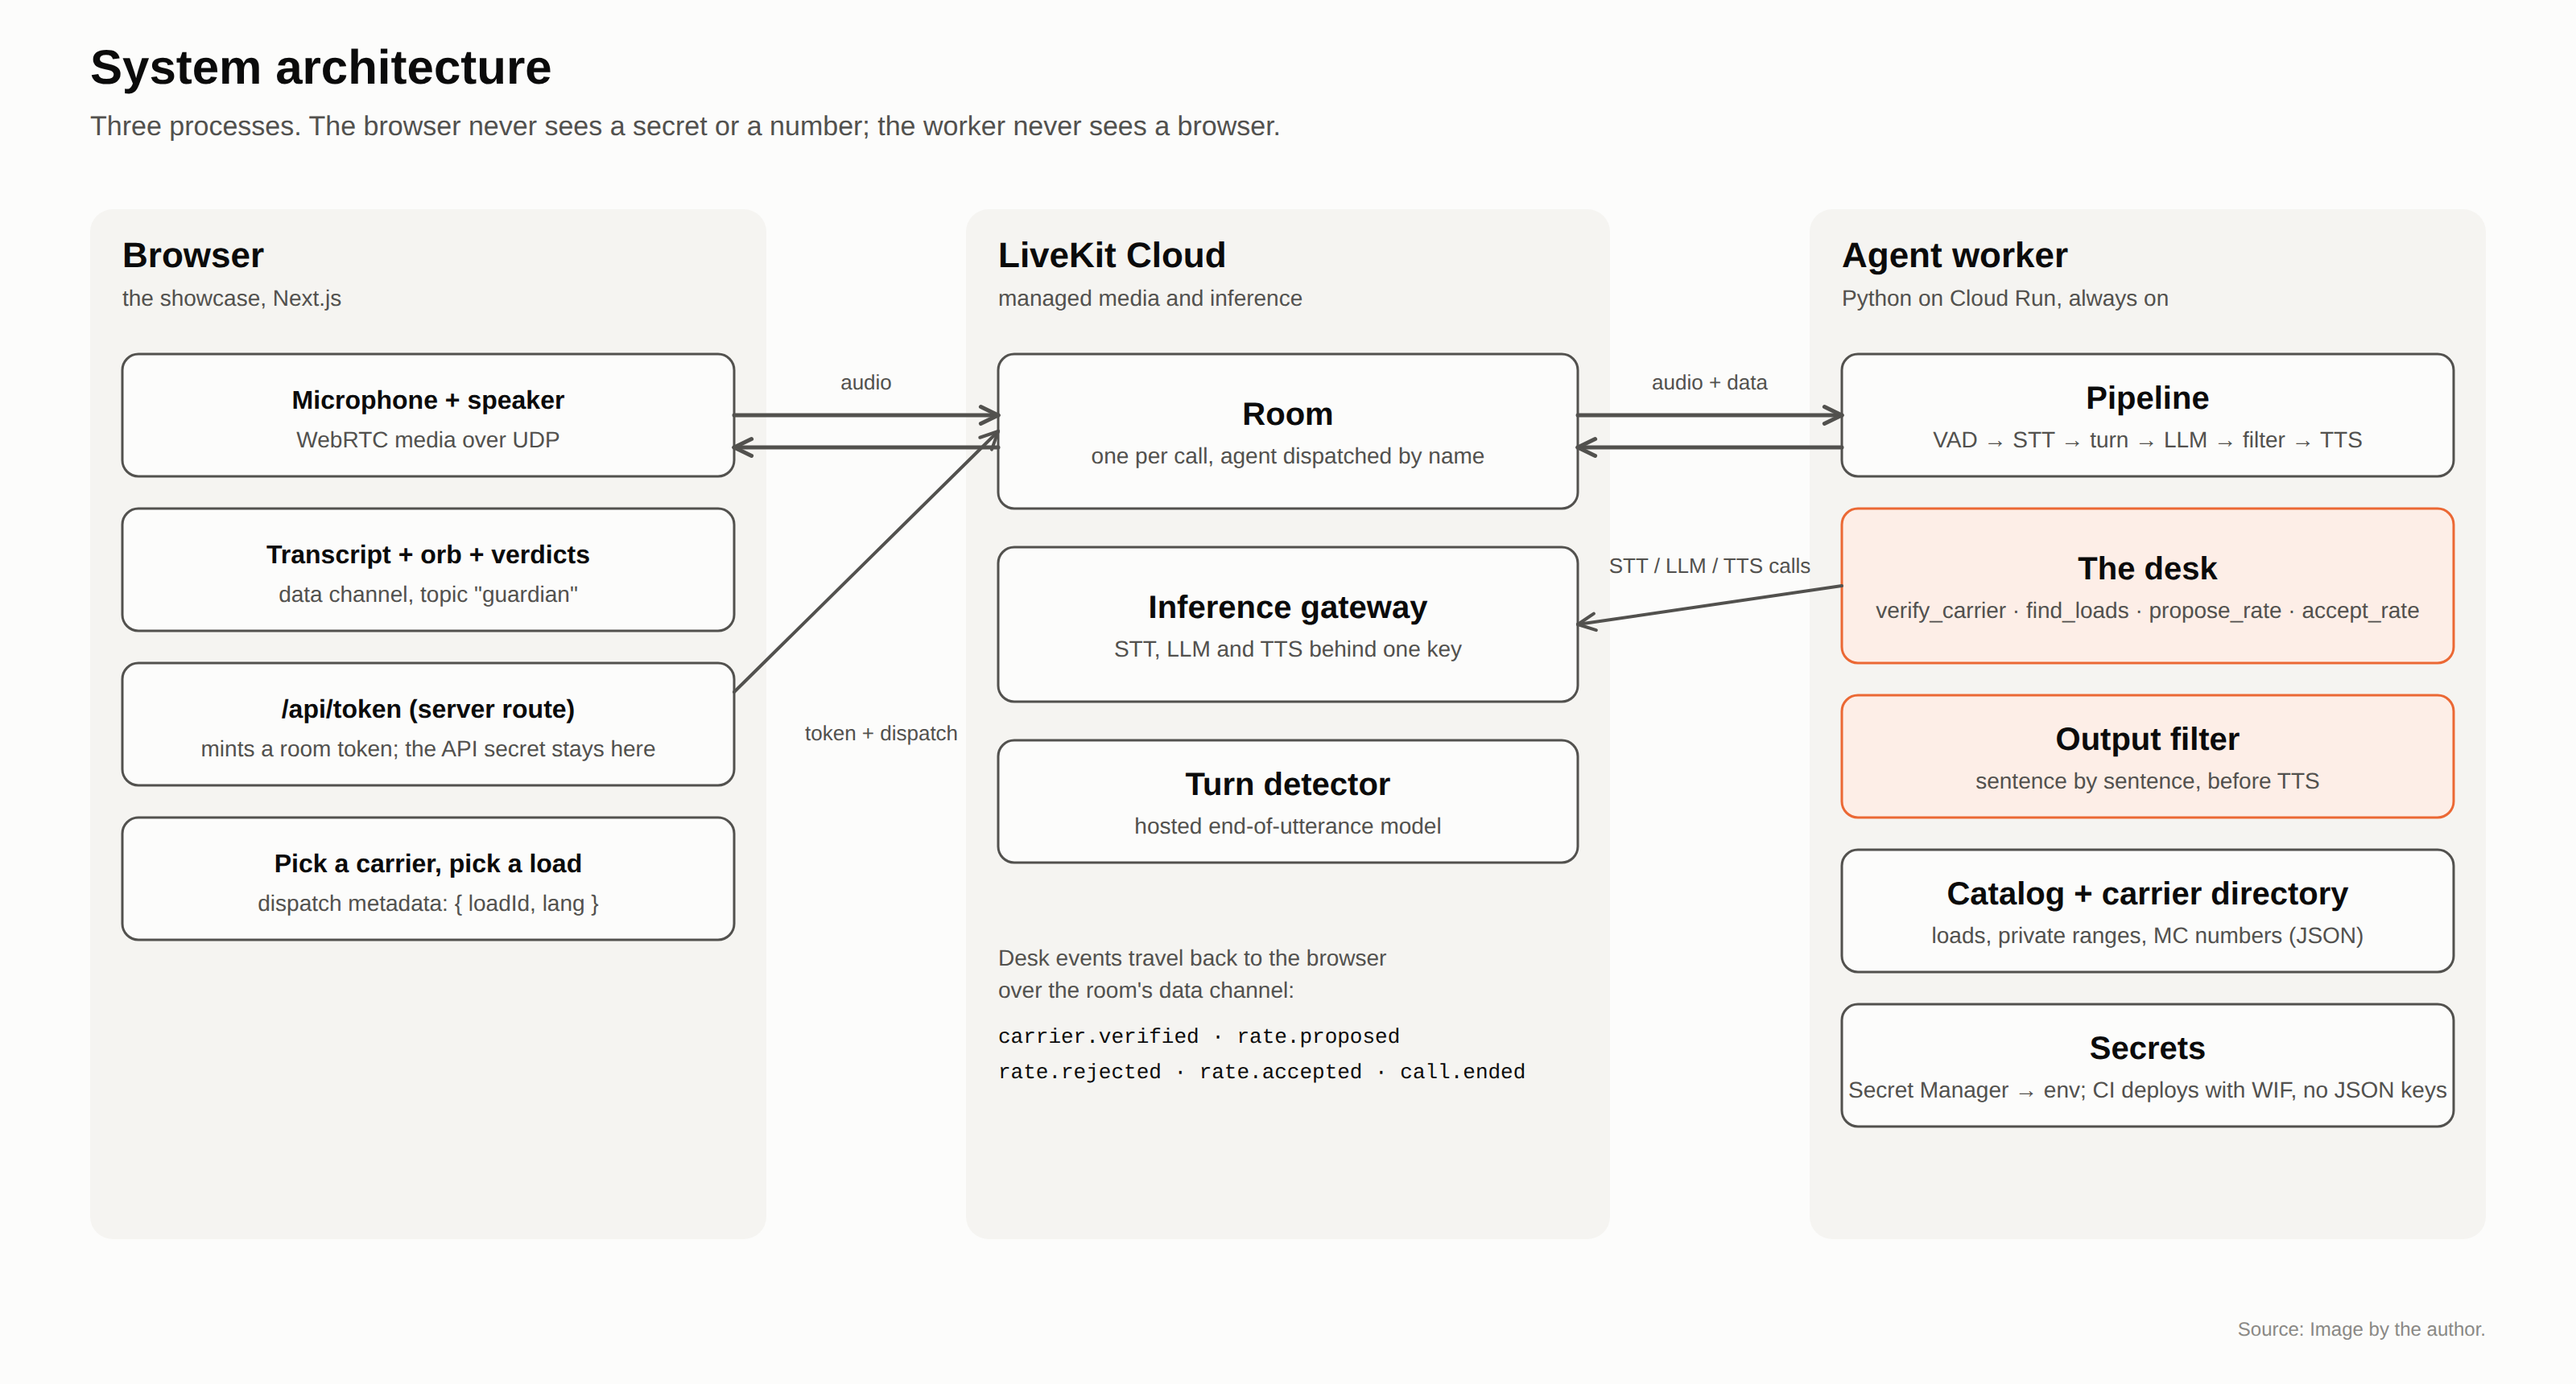
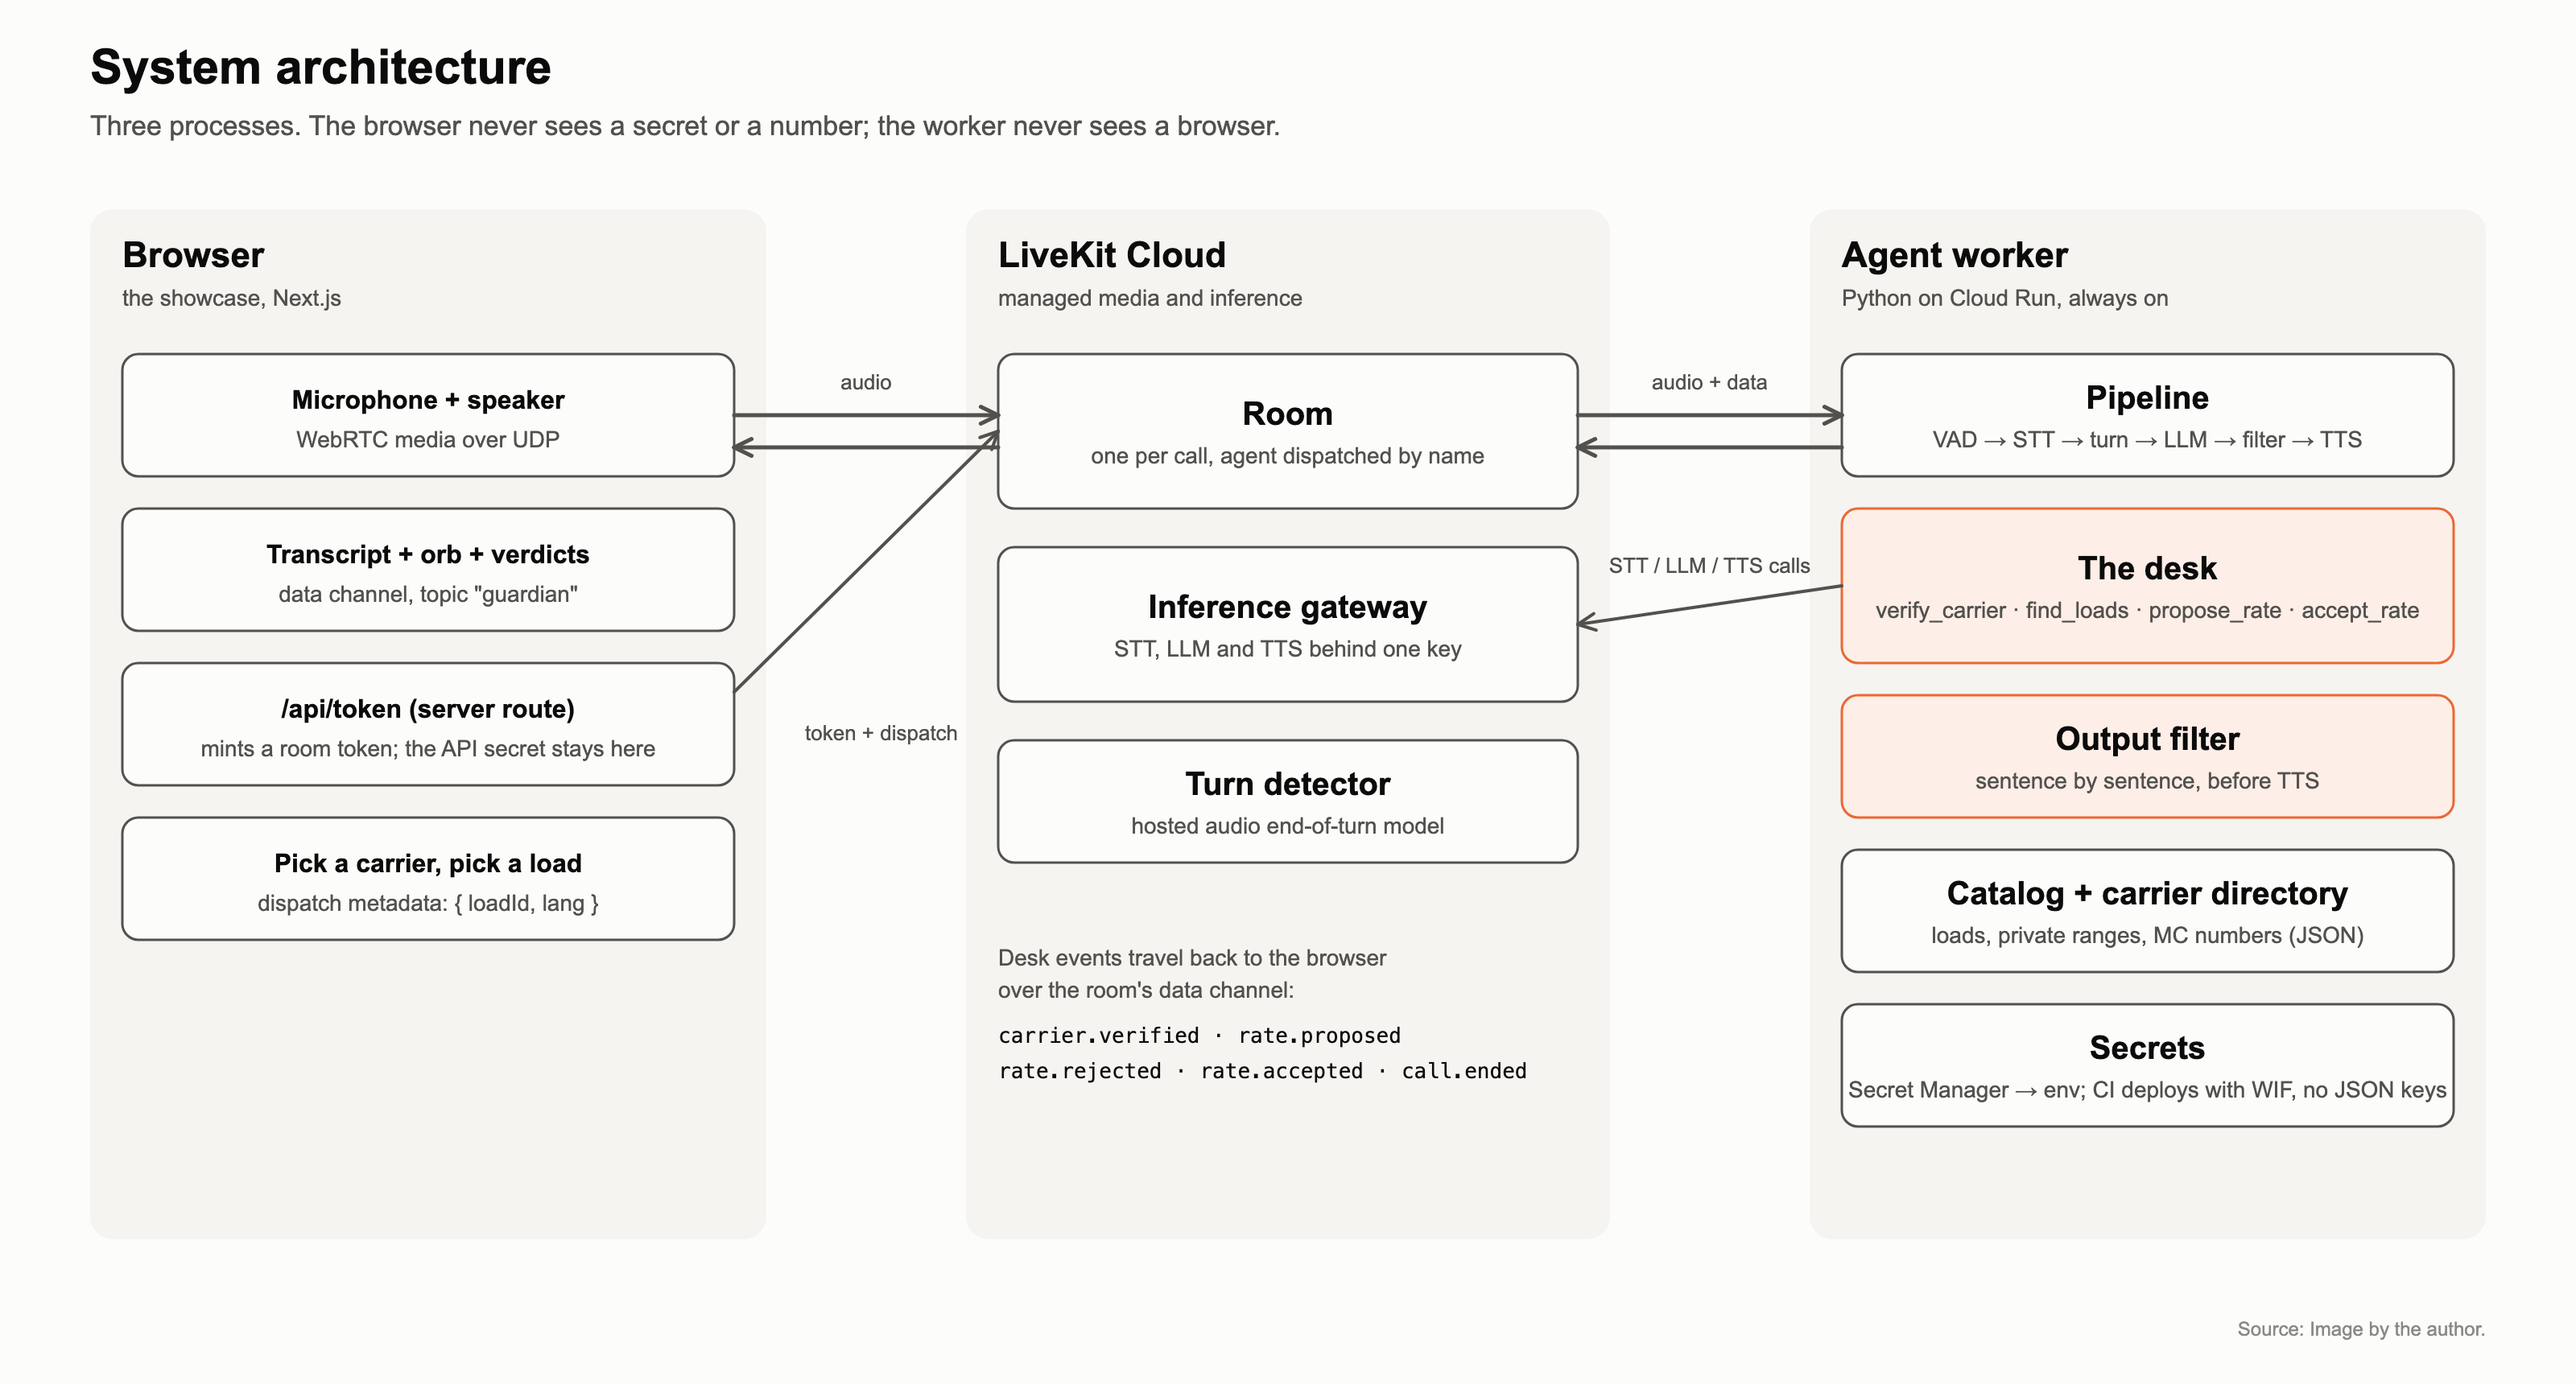
docs(figures): the architecture figure names the audio turn detector
The turn detector box said "hosted end-of-utterance model", which reads as the
text model. It is LiveKit's audio end-of-turn model; the label, the generator
script and the 2x PNG now say so.

diff --git a/docs/articles/figures-01/src/make_figures.py b/docs/articles/figures-01/src/make_figures.py
@@ -254,7 +254,7 @@ def fig_architecture():
     lx = 620
     s.box(lx, top + 90, 360, 96, "Room", "one per call, agent dispatched by name")
     s.box(lx, top + 210, 360, 96, "Inference gateway", "STT, LLM and TTS behind one key")
-    s.box(lx, top + 330, 360, 76, "Turn detector", "hosted end-of-utterance model")
+    s.box(lx, top + 330, 360, 76, "Turn detector", "hosted audio end-of-turn model")
     # worker items
     wx = 1144
     s.box(wx, top + 90, 380, 76, "Pipeline", "VAD → STT → turn → LLM → filter → TTS")
